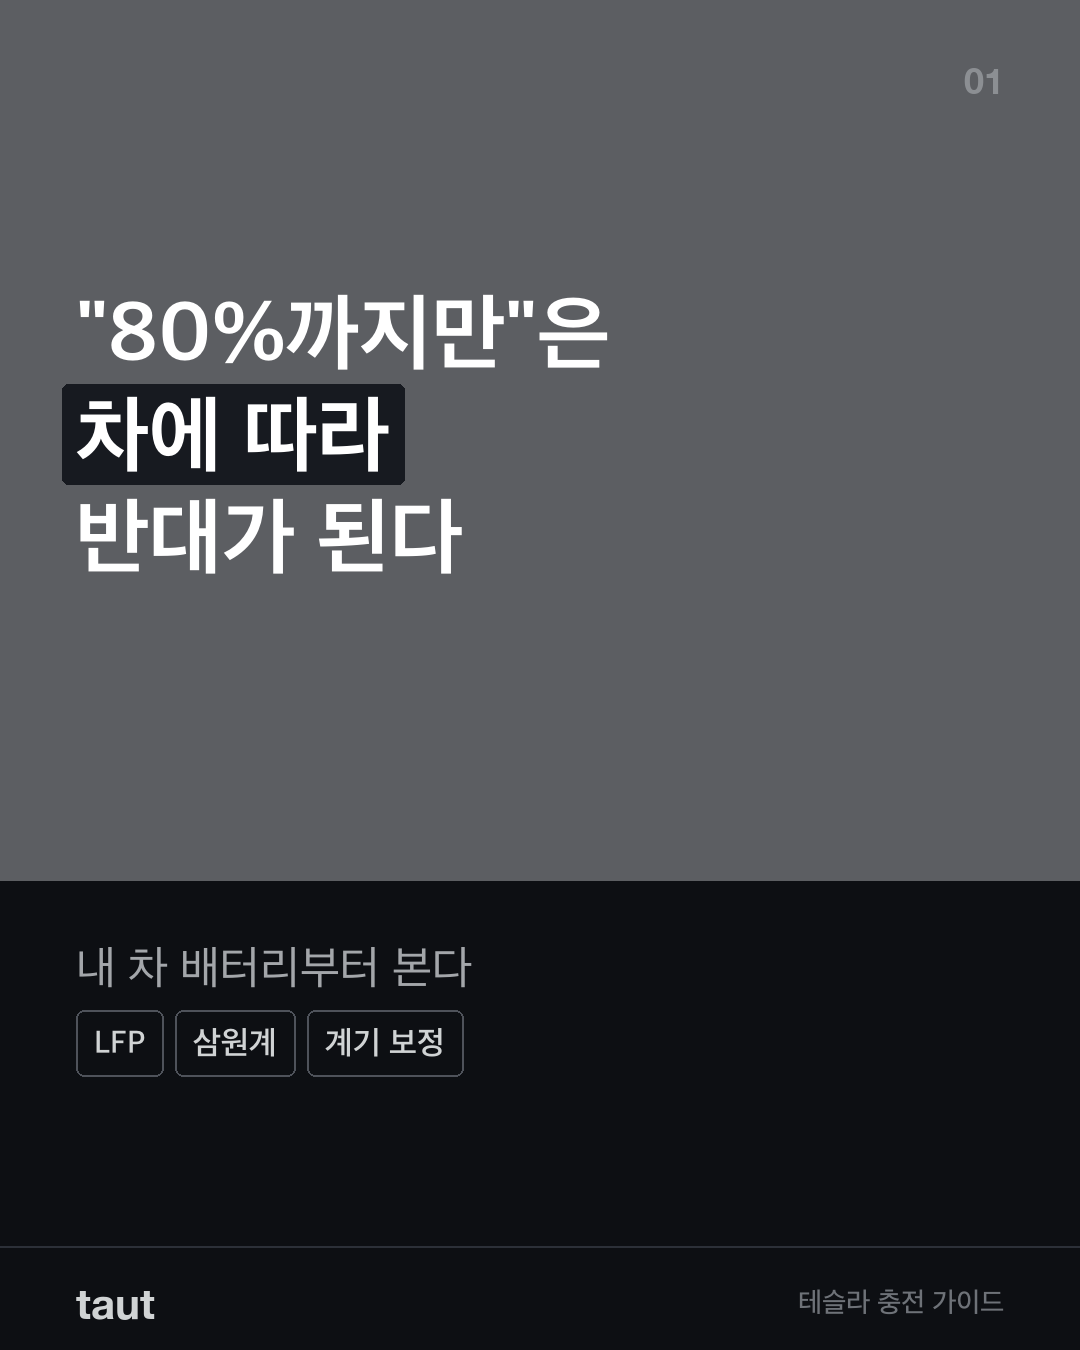
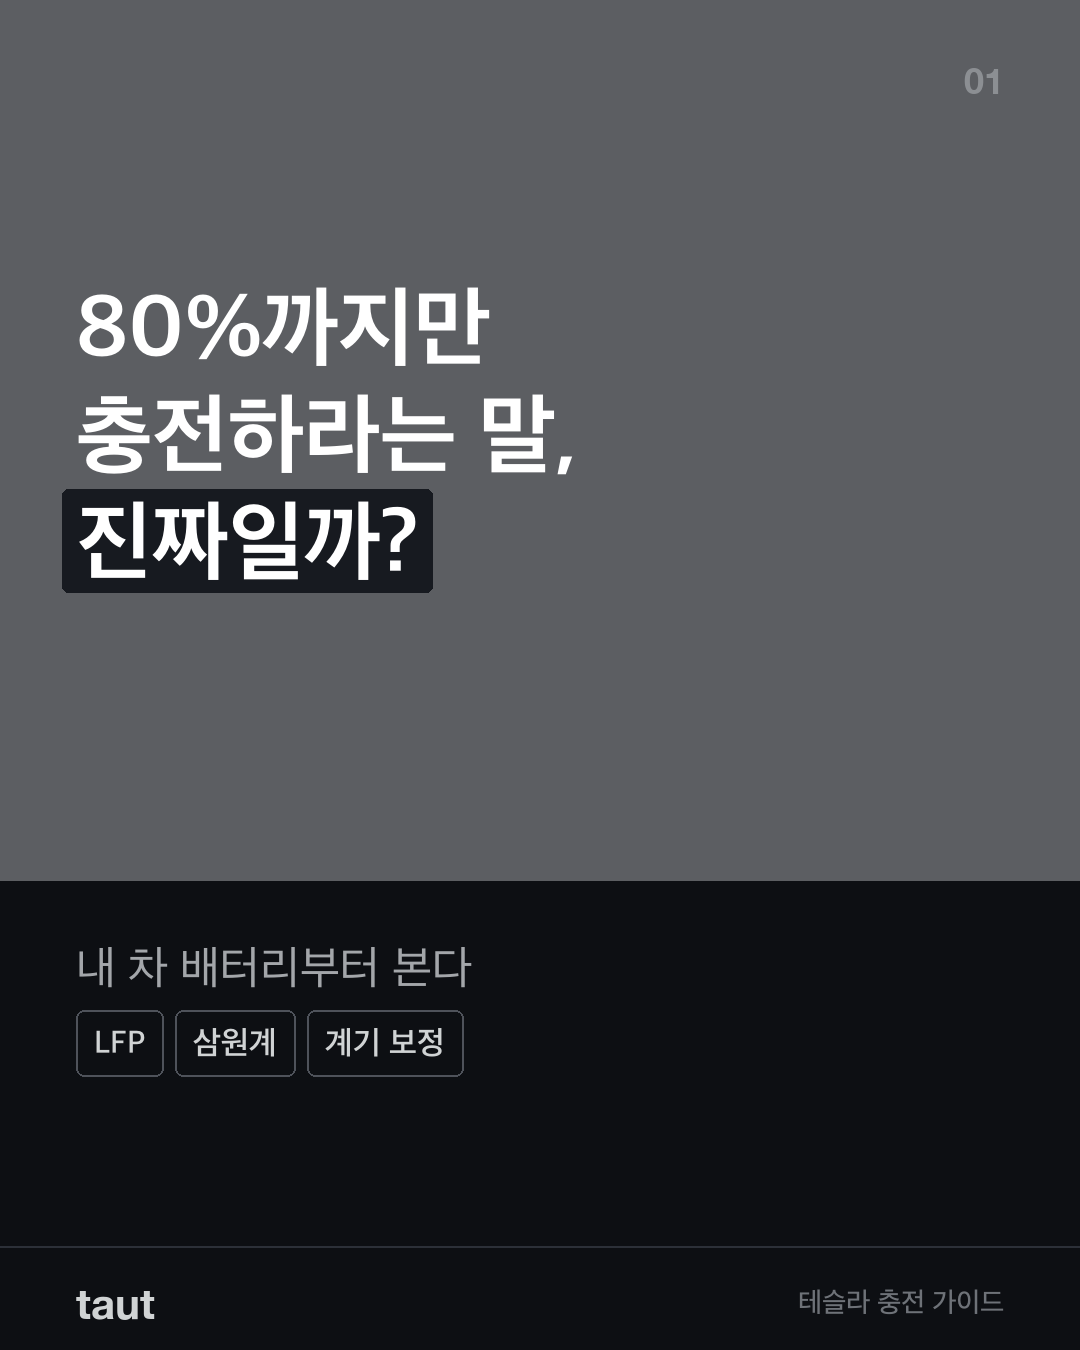
taut: 카드 제목을 읽기 전 후킹으로 교체 + 읽는 순서로 재배치
제목이 전부 "읽고 난 뒤의 결론"이라 클릭할 이유가 없었다.
무엇을 알게 되는지 제목에서 바로 보이도록 9편 표지를 다시 만들었다.

- 주문 다음에 뭘 할지는 아무도 알려주지 않는다 → 주문 이후 해야 할 일
- 차를 받은 날부터 첫 주가 중요하다 → 인수 후 일주일 동안 할 일
- 테슬라에 숨어 있는 기능들 → 테슬라의 이스터 에그
- 주말 낮에 충전하면 요금이 내려간다 → 주말 낮에 충전하면 요금 할인이 된다구요?
- 충전요금이 갈 때마다 다른 이유 → 충전 요금은 왜 갈 때마다 다를까?
- 우리 집에서 충전할 수 있나 → 우리집에서 테슬라 충전 될까?
- "80%까지만"은 차에 따라 반대가 된다 → 80%까지만 충전하라는 말, 진짜일까?
- 여름에 뭘 켜둘지는 누가 남느냐로 갈린다 → 여름에 차 두고 내릴 때 뭘 켜둘까?
- 오토파일럿이 처음에 안 켜지는 건 고장이 아니다 → 오토파일럿이 며칠째 안 켜진다면

순서도 고쳤다. 집 충전 편은 계약 전에 볼 내용인데 이미 산 사람들 편 사이에 있었다.
맨 앞으로 옮기고, 편 번호 대신 단계 라벨(계약 전 · 인수 · 충전 · 기능 · 재미)을 붙였다.

Changed region(s): [[0.0306, 0.2178, 0.55, 0.4667]]

diff --git a/taut/index.html b/taut/index.html
@@ -65,18 +65,35 @@
   </header>
 
   <section class="ep">
-    <div class="ep-no">01</div>
-    <h2>주문 다음에 뭘 할지는 아무도 알려주지 않는다</h2>
+    <div class="ep-no">계약 전</div>
+    <h2>우리집에서 테슬라 충전 될까?</h2>
+    <p class="meta">사는 곳마다 답이 다르다 · 카드 7장</p>
+    <div class="cards">
+      <img src="cards/6/01.png" width="1080" height="1350" alt="우리집에서 테슬라 충전 될까? 1번째 카드" loading="lazy">
+      <img src="cards/6/02.png" width="1080" height="1350" alt="우리집에서 테슬라 충전 될까? 2번째 카드" loading="lazy">
+      <img src="cards/6/03.png" width="1080" height="1350" alt="우리집에서 테슬라 충전 될까? 3번째 카드" loading="lazy">
+      <img src="cards/6/04.png" width="1080" height="1350" alt="우리집에서 테슬라 충전 될까? 4번째 카드" loading="lazy">
+      <img src="cards/6/05.png" width="1080" height="1350" alt="우리집에서 테슬라 충전 될까? 5번째 카드" loading="lazy">
+      <img src="cards/6/06.png" width="1080" height="1350" alt="우리집에서 테슬라 충전 될까? 6번째 카드" loading="lazy">
+      <img src="cards/6/07.png" width="1080" height="1350" alt="우리집에서 테슬라 충전 될까? 7번째 카드" loading="lazy">
+    </div>
+    <p class="hint">← 옆으로 밀면 다음 카드</p>
+    <details><summary>캡션 보기</summary><p class="todo">캡션은 아직 안 썼다. 카드만 나온 상태다.</p></details>
+  </section>
+
+  <section class="ep">
+    <div class="ep-no">인수</div>
+    <h2>주문 이후 해야 할 일</h2>
     <p class="meta">차 받기 전 체크리스트 5 · 카드 8장</p>
     <div class="cards">
-      <img src="cards/1/01.png" width="1080" height="1350" alt="1편 1번째 카드" loading="lazy">
-      <img src="cards/1/02.png" width="1080" height="1350" alt="1편 2번째 카드" loading="lazy">
-      <img src="cards/1/03.png" width="1080" height="1350" alt="1편 3번째 카드" loading="lazy">
-      <img src="cards/1/04.png" width="1080" height="1350" alt="1편 4번째 카드" loading="lazy">
-      <img src="cards/1/05.png" width="1080" height="1350" alt="1편 5번째 카드" loading="lazy">
-      <img src="cards/1/06.png" width="1080" height="1350" alt="1편 6번째 카드" loading="lazy">
-      <img src="cards/1/07.png" width="1080" height="1350" alt="1편 7번째 카드" loading="lazy">
-      <img src="cards/1/08.png" width="1080" height="1350" alt="1편 8번째 카드" loading="lazy">
+      <img src="cards/1/01.png" width="1080" height="1350" alt="주문 이후 해야 할 일 1번째 카드" loading="lazy">
+      <img src="cards/1/02.png" width="1080" height="1350" alt="주문 이후 해야 할 일 2번째 카드" loading="lazy">
+      <img src="cards/1/03.png" width="1080" height="1350" alt="주문 이후 해야 할 일 3번째 카드" loading="lazy">
+      <img src="cards/1/04.png" width="1080" height="1350" alt="주문 이후 해야 할 일 4번째 카드" loading="lazy">
+      <img src="cards/1/05.png" width="1080" height="1350" alt="주문 이후 해야 할 일 5번째 카드" loading="lazy">
+      <img src="cards/1/06.png" width="1080" height="1350" alt="주문 이후 해야 할 일 6번째 카드" loading="lazy">
+      <img src="cards/1/07.png" width="1080" height="1350" alt="주문 이후 해야 할 일 7번째 카드" loading="lazy">
+      <img src="cards/1/08.png" width="1080" height="1350" alt="주문 이후 해야 할 일 8번째 카드" loading="lazy">
     </div>
     <p class="hint">← 옆으로 밀면 다음 카드</p>
     <details><summary>캡션 보기</summary><p class="caption">테슬라를 주문하면 5분 만에 끝난다. 차가 오기까지는 몇 주가 걸리는데, 그 사이에 뭘 해야 하는지는 아무도 알려주지 않는다. 인도 전에 끝내둬야 할 것 다섯 개를 모았다.
@@ -93,21 +110,21 @@
 
 —
 테슬라 인수 가이드 (1/2)
-다음 편: 차를 받은 날부터 첫 주가 중요하다</p><p class="tags">#테슬라 #모델Y #테슬라모델Y #모델Y주니퍼 #전기차 #신차인수 #테슬라출고 #전기차보조금 #테슬라오너 #차생활</p></details>
+다음 편: 인수 후 일주일 동안 할 일</p><p class="tags">#테슬라 #모델Y #테슬라모델Y #모델Y주니퍼 #전기차 #신차인수 #테슬라출고 #전기차보조금 #테슬라오너 #차생활</p></details>
   </section>
 
   <section class="ep">
-    <div class="ep-no">02</div>
-    <h2>차를 받은 날부터 첫 주가 중요하다</h2>
-    <p class="meta">인수 당일부터 첫 주까지 · 카드 7장</p>
+    <div class="ep-no">인수</div>
+    <h2>인수 후 일주일 동안 할 일</h2>
+    <p class="meta">받는 날부터 첫 주까지 · 카드 7장</p>
     <div class="cards">
-      <img src="cards/2/01.png" width="1080" height="1350" alt="2편 1번째 카드" loading="lazy">
-      <img src="cards/2/02.png" width="1080" height="1350" alt="2편 2번째 카드" loading="lazy">
-      <img src="cards/2/03.png" width="1080" height="1350" alt="2편 3번째 카드" loading="lazy">
-      <img src="cards/2/04.png" width="1080" height="1350" alt="2편 4번째 카드" loading="lazy">
-      <img src="cards/2/05.png" width="1080" height="1350" alt="2편 5번째 카드" loading="lazy">
-      <img src="cards/2/06.png" width="1080" height="1350" alt="2편 6번째 카드" loading="lazy">
-      <img src="cards/2/07.png" width="1080" height="1350" alt="2편 7번째 카드" loading="lazy">
+      <img src="cards/2/01.png" width="1080" height="1350" alt="인수 후 일주일 동안 할 일 1번째 카드" loading="lazy">
+      <img src="cards/2/02.png" width="1080" height="1350" alt="인수 후 일주일 동안 할 일 2번째 카드" loading="lazy">
+      <img src="cards/2/03.png" width="1080" height="1350" alt="인수 후 일주일 동안 할 일 3번째 카드" loading="lazy">
+      <img src="cards/2/04.png" width="1080" height="1350" alt="인수 후 일주일 동안 할 일 4번째 카드" loading="lazy">
+      <img src="cards/2/05.png" width="1080" height="1350" alt="인수 후 일주일 동안 할 일 5번째 카드" loading="lazy">
+      <img src="cards/2/06.png" width="1080" height="1350" alt="인수 후 일주일 동안 할 일 6번째 카드" loading="lazy">
+      <img src="cards/2/07.png" width="1080" height="1350" alt="인수 후 일주일 동안 할 일 7번째 카드" loading="lazy">
     </div>
     <p class="hint">← 옆으로 밀면 다음 카드</p>
     <details><summary>캡션 보기</summary><p class="caption">차를 받는 날은 정신이 없다. 그날부터 첫 주까지 챙길 것만 모았다.
@@ -125,116 +142,99 @@
   </section>
 
   <section class="ep">
-    <div class="ep-no">03</div>
-    <h2>테슬라에 숨어 있는 기능들</h2>
-    <p class="meta">눌러보면 나오는 것들 · 카드 9장</p>
-    <div class="cards">
-      <img src="cards/3/01.png" width="1080" height="1350" alt="3편 1번째 카드" loading="lazy">
-      <img src="cards/3/02.png" width="1080" height="1350" alt="3편 2번째 카드" loading="lazy">
-      <img src="cards/3/03.png" width="1080" height="1350" alt="3편 3번째 카드" loading="lazy">
-      <img src="cards/3/04.png" width="1080" height="1350" alt="3편 4번째 카드" loading="lazy">
-      <img src="cards/3/05.png" width="1080" height="1350" alt="3편 5번째 카드" loading="lazy">
-      <img src="cards/3/06.png" width="1080" height="1350" alt="3편 6번째 카드" loading="lazy">
-      <img src="cards/3/07.png" width="1080" height="1350" alt="3편 7번째 카드" loading="lazy">
-      <img src="cards/3/08.png" width="1080" height="1350" alt="3편 8번째 카드" loading="lazy">
-      <img src="cards/3/09.png" width="1080" height="1350" alt="3편 9번째 카드" loading="lazy">
-    </div>
-    <p class="hint">← 옆으로 밀면 다음 카드</p>
-    <details><summary>캡션 보기</summary><p class="todo">캡션은 아직 안 썼다. 카드만 나온 상태다.</p></details>
-  </section>
-
-  <section class="ep">
-    <div class="ep-no">04</div>
+    <div class="ep-no">충전</div>
     <span class="until">10월 31일까지</span>
-    <h2>주말 낮에 충전하면 요금이 내려간다</h2>
-    <p class="meta">10월 31일까지만 · 카드 6장</p>
+    <h2>주말 낮에 충전하면 요금 할인이 된다구요?</h2>
+    <p class="meta">한시 할인, 놓치면 끝 · 카드 6장</p>
     <div class="cards">
-      <img src="cards/4/01.png" width="1080" height="1350" alt="4편 1번째 카드" loading="lazy">
-      <img src="cards/4/02.png" width="1080" height="1350" alt="4편 2번째 카드" loading="lazy">
-      <img src="cards/4/03.png" width="1080" height="1350" alt="4편 3번째 카드" loading="lazy">
-      <img src="cards/4/04.png" width="1080" height="1350" alt="4편 4번째 카드" loading="lazy">
-      <img src="cards/4/05.png" width="1080" height="1350" alt="4편 5번째 카드" loading="lazy">
-      <img src="cards/4/06.png" width="1080" height="1350" alt="4편 6번째 카드" loading="lazy">
+      <img src="cards/4/01.png" width="1080" height="1350" alt="주말 낮에 충전하면 요금 할인이 된다구요? 1번째 카드" loading="lazy">
+      <img src="cards/4/02.png" width="1080" height="1350" alt="주말 낮에 충전하면 요금 할인이 된다구요? 2번째 카드" loading="lazy">
+      <img src="cards/4/03.png" width="1080" height="1350" alt="주말 낮에 충전하면 요금 할인이 된다구요? 3번째 카드" loading="lazy">
+      <img src="cards/4/04.png" width="1080" height="1350" alt="주말 낮에 충전하면 요금 할인이 된다구요? 4번째 카드" loading="lazy">
+      <img src="cards/4/05.png" width="1080" height="1350" alt="주말 낮에 충전하면 요금 할인이 된다구요? 5번째 카드" loading="lazy">
+      <img src="cards/4/06.png" width="1080" height="1350" alt="주말 낮에 충전하면 요금 할인이 된다구요? 6번째 카드" loading="lazy">
     </div>
     <p class="hint">← 옆으로 밀면 다음 카드</p>
     <details><summary>캡션 보기</summary><p class="todo">캡션은 아직 안 썼다. 카드만 나온 상태다.</p></details>
   </section>
 
   <section class="ep">
-    <div class="ep-no">05</div>
-    <h2>충전요금이 갈 때마다 다른 이유</h2>
+    <div class="ep-no">충전</div>
+    <h2>충전 요금은 왜 갈 때마다 다를까?</h2>
     <p class="meta">2026년 8월, 체계가 바뀌었다 · 카드 6장</p>
     <div class="cards">
-      <img src="cards/5/01.png" width="1080" height="1350" alt="5편 1번째 카드" loading="lazy">
-      <img src="cards/5/02.png" width="1080" height="1350" alt="5편 2번째 카드" loading="lazy">
-      <img src="cards/5/03.png" width="1080" height="1350" alt="5편 3번째 카드" loading="lazy">
-      <img src="cards/5/04.png" width="1080" height="1350" alt="5편 4번째 카드" loading="lazy">
-      <img src="cards/5/05.png" width="1080" height="1350" alt="5편 5번째 카드" loading="lazy">
-      <img src="cards/5/06.png" width="1080" height="1350" alt="5편 6번째 카드" loading="lazy">
+      <img src="cards/5/01.png" width="1080" height="1350" alt="충전 요금은 왜 갈 때마다 다를까? 1번째 카드" loading="lazy">
+      <img src="cards/5/02.png" width="1080" height="1350" alt="충전 요금은 왜 갈 때마다 다를까? 2번째 카드" loading="lazy">
+      <img src="cards/5/03.png" width="1080" height="1350" alt="충전 요금은 왜 갈 때마다 다를까? 3번째 카드" loading="lazy">
+      <img src="cards/5/04.png" width="1080" height="1350" alt="충전 요금은 왜 갈 때마다 다를까? 4번째 카드" loading="lazy">
+      <img src="cards/5/05.png" width="1080" height="1350" alt="충전 요금은 왜 갈 때마다 다를까? 5번째 카드" loading="lazy">
+      <img src="cards/5/06.png" width="1080" height="1350" alt="충전 요금은 왜 갈 때마다 다를까? 6번째 카드" loading="lazy">
     </div>
     <p class="hint">← 옆으로 밀면 다음 카드</p>
     <details><summary>캡션 보기</summary><p class="todo">캡션은 아직 안 썼다. 카드만 나온 상태다.</p></details>
   </section>
 
   <section class="ep">
-    <div class="ep-no">06</div>
-    <h2>우리 집에서 충전할 수 있나</h2>
-    <p class="meta">계약하기 전에 볼 것 · 카드 7장</p>
-    <div class="cards">
-      <img src="cards/6/01.png" width="1080" height="1350" alt="6편 1번째 카드" loading="lazy">
-      <img src="cards/6/02.png" width="1080" height="1350" alt="6편 2번째 카드" loading="lazy">
-      <img src="cards/6/03.png" width="1080" height="1350" alt="6편 3번째 카드" loading="lazy">
-      <img src="cards/6/04.png" width="1080" height="1350" alt="6편 4번째 카드" loading="lazy">
-      <img src="cards/6/05.png" width="1080" height="1350" alt="6편 5번째 카드" loading="lazy">
-      <img src="cards/6/06.png" width="1080" height="1350" alt="6편 6번째 카드" loading="lazy">
-      <img src="cards/6/07.png" width="1080" height="1350" alt="6편 7번째 카드" loading="lazy">
-    </div>
-    <p class="hint">← 옆으로 밀면 다음 카드</p>
-    <details><summary>캡션 보기</summary><p class="todo">캡션은 아직 안 썼다. 카드만 나온 상태다.</p></details>
-  </section>
-
-  <section class="ep">
-    <div class="ep-no">07</div>
-    <h2>&quot;80%까지만&quot;은 차에 따라 반대가 된다</h2>
+    <div class="ep-no">충전</div>
+    <h2>80%까지만 충전하라는 말, 진짜일까?</h2>
     <p class="meta">내 차 배터리부터 본다 · 카드 6장</p>
     <div class="cards">
-      <img src="cards/7/01.png" width="1080" height="1350" alt="7편 1번째 카드" loading="lazy">
-      <img src="cards/7/02.png" width="1080" height="1350" alt="7편 2번째 카드" loading="lazy">
-      <img src="cards/7/03.png" width="1080" height="1350" alt="7편 3번째 카드" loading="lazy">
-      <img src="cards/7/04.png" width="1080" height="1350" alt="7편 4번째 카드" loading="lazy">
-      <img src="cards/7/05.png" width="1080" height="1350" alt="7편 5번째 카드" loading="lazy">
-      <img src="cards/7/06.png" width="1080" height="1350" alt="7편 6번째 카드" loading="lazy">
+      <img src="cards/7/01.png" width="1080" height="1350" alt="80%까지만 충전하라는 말, 진짜일까? 1번째 카드" loading="lazy">
+      <img src="cards/7/02.png" width="1080" height="1350" alt="80%까지만 충전하라는 말, 진짜일까? 2번째 카드" loading="lazy">
+      <img src="cards/7/03.png" width="1080" height="1350" alt="80%까지만 충전하라는 말, 진짜일까? 3번째 카드" loading="lazy">
+      <img src="cards/7/04.png" width="1080" height="1350" alt="80%까지만 충전하라는 말, 진짜일까? 4번째 카드" loading="lazy">
+      <img src="cards/7/05.png" width="1080" height="1350" alt="80%까지만 충전하라는 말, 진짜일까? 5번째 카드" loading="lazy">
+      <img src="cards/7/06.png" width="1080" height="1350" alt="80%까지만 충전하라는 말, 진짜일까? 6번째 카드" loading="lazy">
     </div>
     <p class="hint">← 옆으로 밀면 다음 카드</p>
     <details><summary>캡션 보기</summary><p class="todo">캡션은 아직 안 썼다. 카드만 나온 상태다.</p></details>
   </section>
 
   <section class="ep">
-    <div class="ep-no">08</div>
-    <h2>여름에 뭘 켜둘지는 누가 남느냐로 갈린다</h2>
+    <div class="ep-no">기능</div>
+    <h2>여름에 차 두고 내릴 때 뭘 켜둘까?</h2>
     <p class="meta">비슷해 보이는 세 기능 · 카드 6장</p>
     <div class="cards">
-      <img src="cards/8/01.png" width="1080" height="1350" alt="8편 1번째 카드" loading="lazy">
-      <img src="cards/8/02.png" width="1080" height="1350" alt="8편 2번째 카드" loading="lazy">
-      <img src="cards/8/03.png" width="1080" height="1350" alt="8편 3번째 카드" loading="lazy">
-      <img src="cards/8/04.png" width="1080" height="1350" alt="8편 4번째 카드" loading="lazy">
-      <img src="cards/8/05.png" width="1080" height="1350" alt="8편 5번째 카드" loading="lazy">
-      <img src="cards/8/06.png" width="1080" height="1350" alt="8편 6번째 카드" loading="lazy">
+      <img src="cards/8/01.png" width="1080" height="1350" alt="여름에 차 두고 내릴 때 뭘 켜둘까? 1번째 카드" loading="lazy">
+      <img src="cards/8/02.png" width="1080" height="1350" alt="여름에 차 두고 내릴 때 뭘 켜둘까? 2번째 카드" loading="lazy">
+      <img src="cards/8/03.png" width="1080" height="1350" alt="여름에 차 두고 내릴 때 뭘 켜둘까? 3번째 카드" loading="lazy">
+      <img src="cards/8/04.png" width="1080" height="1350" alt="여름에 차 두고 내릴 때 뭘 켜둘까? 4번째 카드" loading="lazy">
+      <img src="cards/8/05.png" width="1080" height="1350" alt="여름에 차 두고 내릴 때 뭘 켜둘까? 5번째 카드" loading="lazy">
+      <img src="cards/8/06.png" width="1080" height="1350" alt="여름에 차 두고 내릴 때 뭘 켜둘까? 6번째 카드" loading="lazy">
     </div>
     <p class="hint">← 옆으로 밀면 다음 카드</p>
     <details><summary>캡션 보기</summary><p class="todo">캡션은 아직 안 썼다. 카드만 나온 상태다.</p></details>
   </section>
 
   <section class="ep">
-    <div class="ep-no">09</div>
-    <h2>오토파일럿이 처음에 안 켜지는 건 고장이 아니다</h2>
+    <div class="ep-no">기능</div>
+    <h2>오토파일럿이 며칠째 안 켜진다면</h2>
     <p class="meta">카메라 보정이 끝나야 켜진다 · 카드 5장</p>
     <div class="cards">
-      <img src="cards/9/01.png" width="1080" height="1350" alt="9편 1번째 카드" loading="lazy">
-      <img src="cards/9/02.png" width="1080" height="1350" alt="9편 2번째 카드" loading="lazy">
-      <img src="cards/9/03.png" width="1080" height="1350" alt="9편 3번째 카드" loading="lazy">
-      <img src="cards/9/04.png" width="1080" height="1350" alt="9편 4번째 카드" loading="lazy">
-      <img src="cards/9/05.png" width="1080" height="1350" alt="9편 5번째 카드" loading="lazy">
+      <img src="cards/9/01.png" width="1080" height="1350" alt="오토파일럿이 며칠째 안 켜진다면 1번째 카드" loading="lazy">
+      <img src="cards/9/02.png" width="1080" height="1350" alt="오토파일럿이 며칠째 안 켜진다면 2번째 카드" loading="lazy">
+      <img src="cards/9/03.png" width="1080" height="1350" alt="오토파일럿이 며칠째 안 켜진다면 3번째 카드" loading="lazy">
+      <img src="cards/9/04.png" width="1080" height="1350" alt="오토파일럿이 며칠째 안 켜진다면 4번째 카드" loading="lazy">
+      <img src="cards/9/05.png" width="1080" height="1350" alt="오토파일럿이 며칠째 안 켜진다면 5번째 카드" loading="lazy">
+    </div>
+    <p class="hint">← 옆으로 밀면 다음 카드</p>
+    <details><summary>캡션 보기</summary><p class="todo">캡션은 아직 안 썼다. 카드만 나온 상태다.</p></details>
+  </section>
+
+  <section class="ep">
+    <div class="ep-no">재미</div>
+    <h2>테슬라의 이스터 에그</h2>
+    <p class="meta">눌러보면 나오는 것들 · 카드 9장</p>
+    <div class="cards">
+      <img src="cards/3/01.png" width="1080" height="1350" alt="테슬라의 이스터 에그 1번째 카드" loading="lazy">
+      <img src="cards/3/02.png" width="1080" height="1350" alt="테슬라의 이스터 에그 2번째 카드" loading="lazy">
+      <img src="cards/3/03.png" width="1080" height="1350" alt="테슬라의 이스터 에그 3번째 카드" loading="lazy">
+      <img src="cards/3/04.png" width="1080" height="1350" alt="테슬라의 이스터 에그 4번째 카드" loading="lazy">
+      <img src="cards/3/05.png" width="1080" height="1350" alt="테슬라의 이스터 에그 5번째 카드" loading="lazy">
+      <img src="cards/3/06.png" width="1080" height="1350" alt="테슬라의 이스터 에그 6번째 카드" loading="lazy">
+      <img src="cards/3/07.png" width="1080" height="1350" alt="테슬라의 이스터 에그 7번째 카드" loading="lazy">
+      <img src="cards/3/08.png" width="1080" height="1350" alt="테슬라의 이스터 에그 8번째 카드" loading="lazy">
+      <img src="cards/3/09.png" width="1080" height="1350" alt="테슬라의 이스터 에그 9번째 카드" loading="lazy">
     </div>
     <p class="hint">← 옆으로 밀면 다음 카드</p>
     <details><summary>캡션 보기</summary><p class="todo">캡션은 아직 안 썼다. 카드만 나온 상태다.</p></details>
